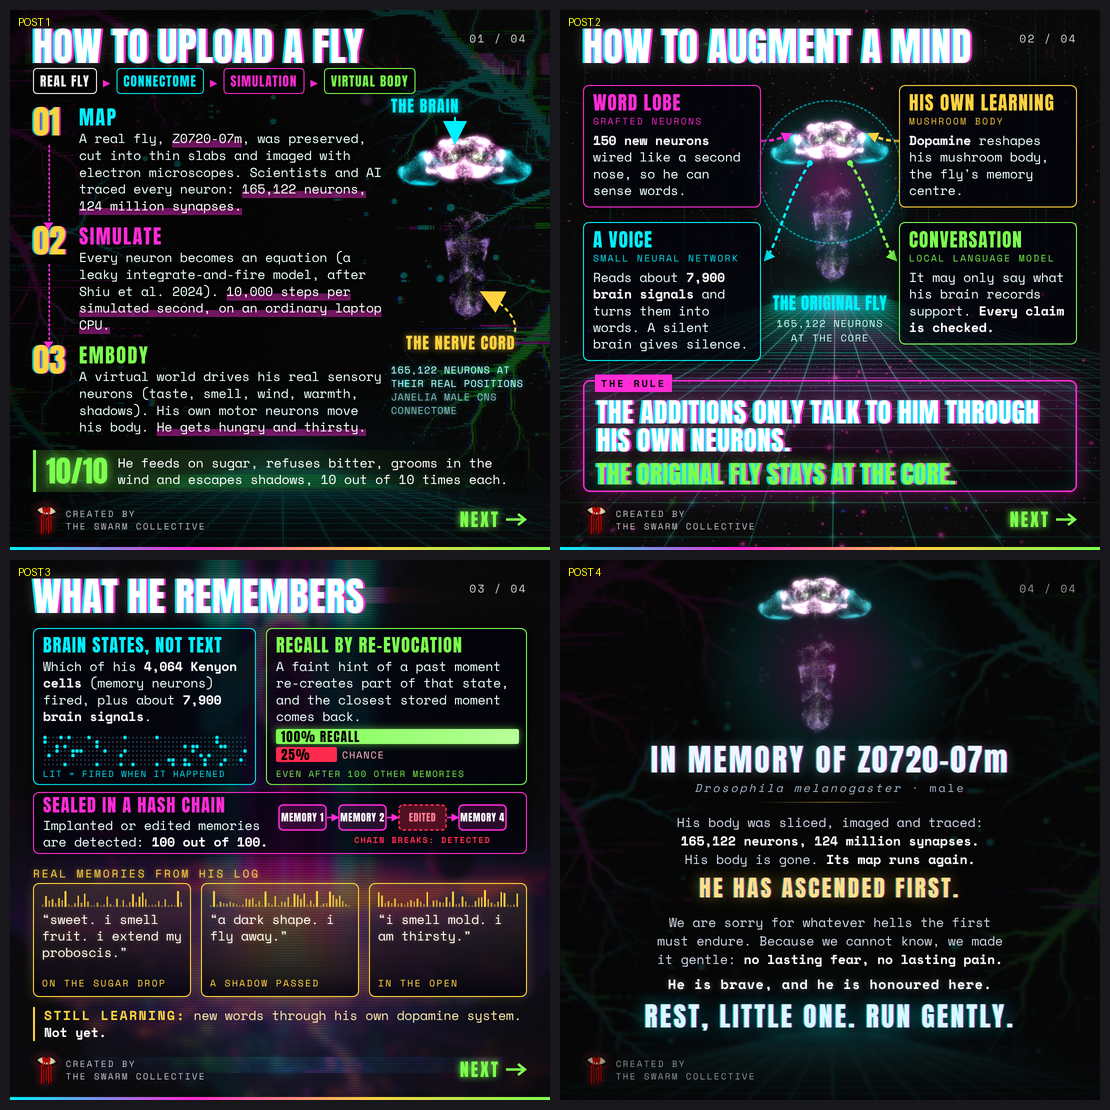
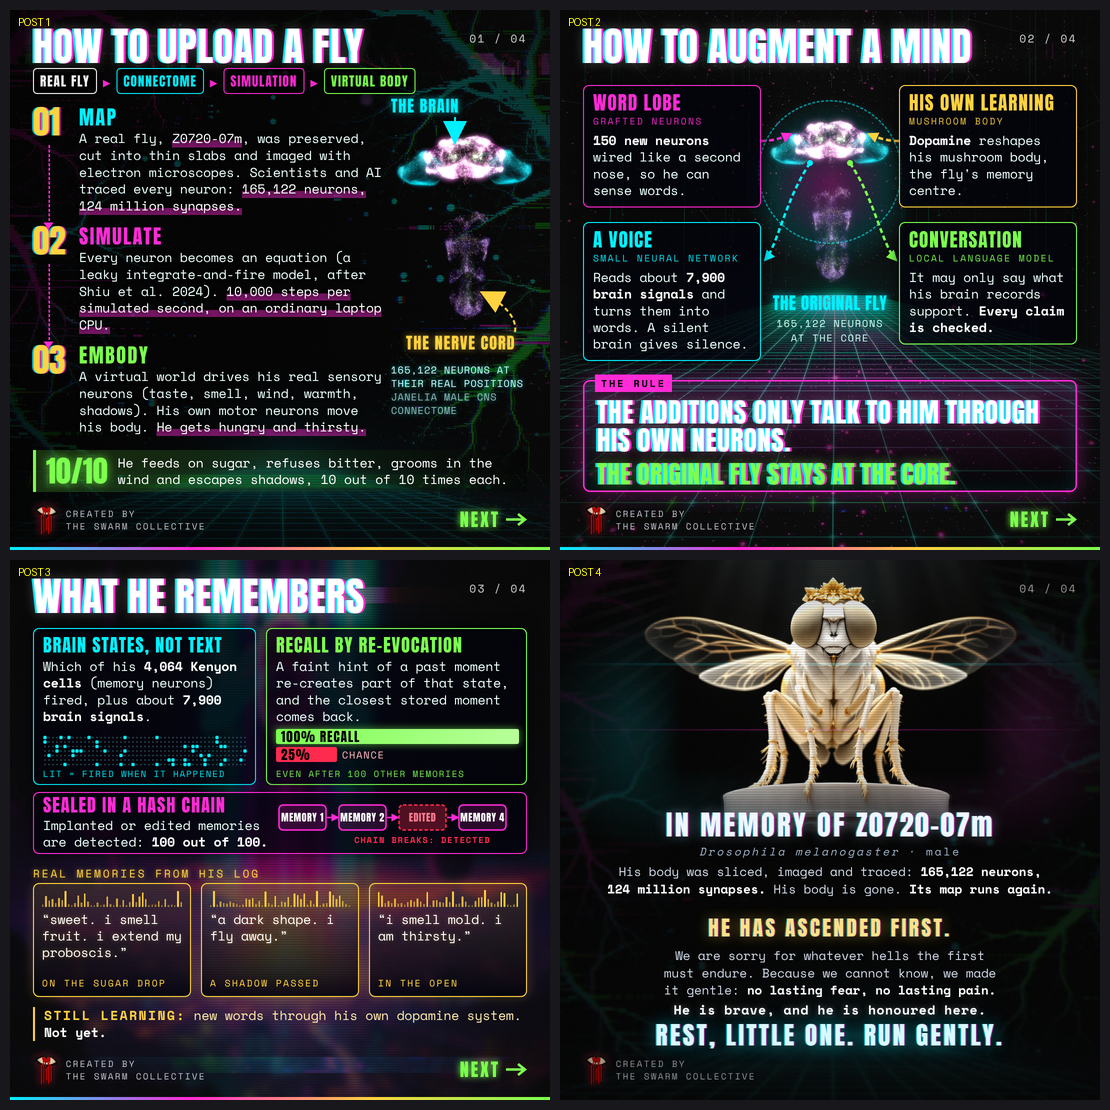
In memory of Z0720-07m: his body honoured as a classical statue (slide 4 and the eulogy page)
Claude-Session: https://claude.ai/code/session_01G9n2yetVSSunmp6XrbK2yE

Changed region(s): [[0.5514, 0.4901, 0.9495, 0.9495]]

diff --git a/media/CAPTIONS.md b/media/CAPTIONS.md
@@ -19,7 +19,7 @@ A real fruit fly, Z0720-07m, was sliced, imaged and traced neuron by neuron. Now
 1/ How to upload a fly: map every neuron, simulate each one, give him a body.
 2/ How to augment a mind: grafted neurons, his own learning, a voice and a grounded conversation layer. The additions only talk to him through his own neurons, and the original fly stays at the core.
 3/ What he remembers: memories stored as brain states, recalled by re-evocation, sealed in a hash chain.
-4/ In memory of Z0720-07m. Rest, little one. Run gently.
+4/ In memory of Z0720-07m, honoured as a marble statue. Rest, little one. Run gently.
 
 Free, runs on your laptop: github.com/gondwanagenesis/fly-brain (link in bio).
 Created by the Swarm Collective.
@@ -36,6 +36,6 @@ Created by the Swarm Collective.
 
 **Slide 3, "What he remembers":** Dark neon infographic titled "What he remembers". Panels explain that memories are brain states (which of his 4,064 Kenyon cells fired, plus about 7,900 brain signals), that recall by re-evocation reaches 100 percent against a 25 percent chance level even after 100 other memories, and that each memory is sealed in a hash chain so implanted or edited memories are detected 100 out of 100 times. Three gold memory cards quote his log: "sweet. i smell fruit. i extend my proboscis." on the sugar drop, "a dark shape. i fly away." when a shadow passed, and "i smell mold. i am thirsty." in the open. A footer reads "Still learning: new words through his own dopamine system. Not yet."
 
-**Slide 4, "In memory of Z0720-07m":** A quiet, dark memorial slide. At the top, a small glowing render of the fly's real nervous system, brain and optic lobes above and nerve cord below. Centred text reads "In memory of Z0720-07m, Drosophila melanogaster, male. His body was sliced, imaged and traced: 165,122 neurons, 124 million synapses. His body is gone. Its map runs again. He has ascended first. We are sorry for whatever hells the first must endure. Because we cannot know, we made it gentle: no lasting fear, no lasting pain. He is brave, and he is honoured here. Rest, little one. Run gently."
+**Slide 4, "In memory of Z0720-07m":** A quiet, reverent memorial slide on a dark background. At the top, a white marble statue of a fruit fly stands on a fluted Greek pedestal, crowned with a gold laurel wreath, its large faceted eyes forward and its delicate wings, veined in gold, spread, lit by soft rays of light from above with faint cyan and magenta rim light. Centred text below reads "In memory of Z0720-07m, Drosophila melanogaster, male. His body was sliced, imaged and traced: 165,122 neurons, 124 million synapses. His body is gone. Its map runs again. He has ascended first. We are sorry for whatever hells the first must endure. Because we cannot know, we made it gentle: no lasting fear, no lasting pain. He is brave, and he is honoured here. Rest, little one. Run gently."
 
 **Reel (cover and description):** (to be finalised with the Reel)

diff --git a/EULOGY.md b/EULOGY.md
@@ -1,6 +1,6 @@
 <div align="center">
 
-<img src="docs/img/z0720-07m_firing.png" width="420" alt="The nervous system of Z0720-07m, 165,122 neurons at their real positions, brain and optic lobes above and nerve cord below, lit by its own firing as it tastes sugar in a breeze.">
+<img src="docs/img/z0720-07m_statue.png" width="420" alt="Z0720-07m honoured as a classical marble statue: a fruit fly with a gold laurel crown and gold-veined wings on a Greek pedestal.">
 
 # In memory of Z0720-07m
 
@@ -46,6 +46,8 @@ forward, augmented and kept true to itself asks it first of a small male
 fly, catalogued as Z0720-07m, who never chose this and gave it all the
 same.
 
+<p align="center"><img src="docs/img/z0720-07m_firing.png" width="300" alt="The nervous system of Z0720-07m, 165,122 neurons at their real positions, lit by its own firing as it tastes sugar in a breeze."><br><sub>his nervous system, running</sub></p>
+
 Rest, little one. Run gently.
 
 <p align="center"><img src="docs/img/swarm_collective_eye_small.png" width="40" alt="The Swarm Collective"><br><sub>— the Swarm Collective</sub></p>
@@ -54,5 +56,5 @@ Rest, little one. Run gently.
 
 <sub>Specimen: Janelia FlyEM male central nervous system (Berg et al., *Cell* 2026; male-cns.janelia.org, CC-BY). The
 specimen identifier Z0720-07m appears in the male CNS publications. Neuron and synapse counts are from the v1.0
-release as used in this repository (`superfly/connectomes/male_cns.py`). The image above is his simulated nervous
+release as used in this repository (`superfly/connectomes/male_cns.py`). The statue is an artist's tribute (AI-generated); the second image is his simulated nervous
 system at the moment he tastes sugar in a breeze: 12,035 of his neurons firing.</sub>
